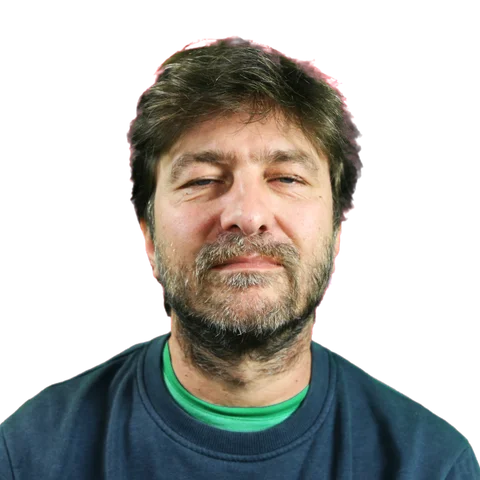
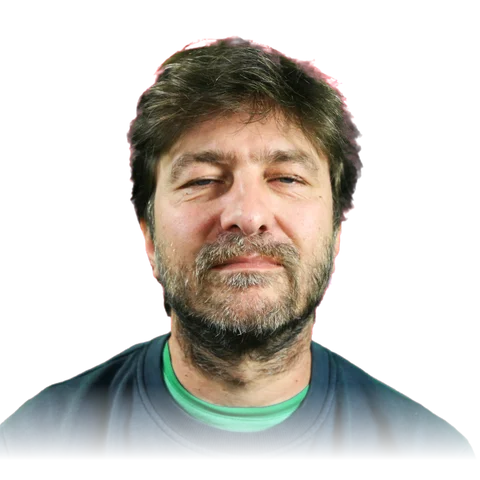
Full 360° turn for Wim's head with the three back-of-head photos
Also fade the bottom of the body out so every frame ends the same way,
and despill green reflections above the collar (glasses).

Claude-Session: https://claude.ai/code/session_01HvEVkLTEJUknuH7kUoYUKC

Changed region(s): [[0.0, 0.8125, 1.0, 1.0]]

diff --git a/scripts/heads/anim.py b/scripts/heads/anim.py
@@ -1,5 +1,6 @@
 import json, sys
 from PIL import Image
+import numpy as np
 # usage: anim.py <cut dir> <out name> "<frame>:<ms>,<frame>:<ms>,..." [size] [still index]
 CUT, NAME = sys.argv[1], sys.argv[2]
 info=json.load(open(f'{CUT}/info.json'))
@@ -11,6 +12,11 @@ for n,d in SEQ:
     im=Image.open(f'{CUT}/{n}.png'); i=info[n]
     x=int(i['cx']); y=i['y0']
     c=im.crop((x-W//2,y-60,x+W//2,y-60+W)).resize((OUTS,OUTS),Image.LANCZOS)
+    # fade the bottom of the body out, so frames where the photo stops early match the others
+    a=np.asarray(c).copy(); h=a.shape[0]; f=int(h*0.16)
+    ramp=np.clip((h-1-np.arange(h)-h*0.04)/(f),0,1)
+    a[...,3]=(a[...,3]*ramp[:,None]).astype(np.uint8)
+    c=Image.fromarray(a)
     frames.append((c,d))
 imgs=[f for f,_ in frames]; durs=[d for _,d in frames]
 imgs[0].save(f'{NAME}.webp',save_all=True,append_images=imgs[1:],duration=durs,loop=0,quality=78,method=6)

diff --git a/scripts/heads/key.py b/scripts/heads/key.py
@@ -47,6 +47,9 @@ def key(path):
     r, g, b = fgc[..., 0], fgc[..., 1], fgc[..., 2]
     lim = np.maximum(r, b)
     collar = (~bgzone) & (s > LO)
+    # only clothing (well below the top of the head) keeps its green; reflections on glasses etc. are despilled
+    top = int(np.where((~bgzone).sum(1) > 6)[0][0])
+    collar[:top + 380] = False
     collar = ndi.binary_erosion(collar, iterations=2)
     g2 = np.where(collar, g, np.minimum(g, lim * 1.0 + 4))
     fgc[..., 1] = g2
